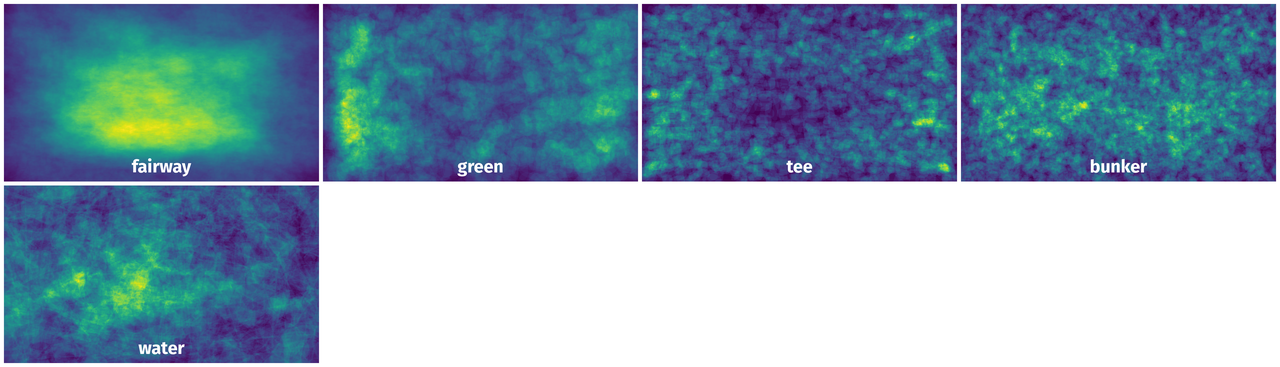
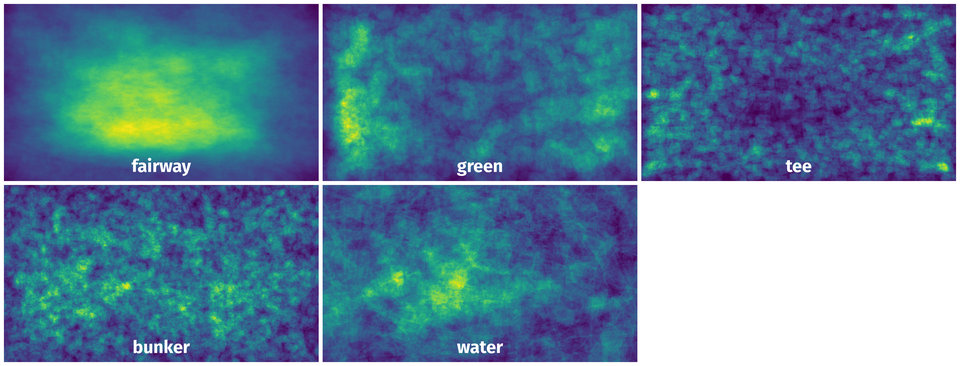
гтршву

diff --git a/src/options.py b/src/options.py
@@ -10,7 +10,7 @@ SAMPLE_RATE = 1  # make less if dataset is too big
 # * Preview class to visualize in SUMMARY.md overview section
 # * Literal["ClassesPreview", "HorizontalGrid", "SideAnnotationsGrid", "Poster", "HorizontalGridAnimated", "VerticalGridAnimated"]
 # * If None, then preview_class will be set automatically to "ClassesPreview"
-PREVIEW_CLASS = "Poster"
+PREVIEW_CLASS = "HorizontalGridAnimated"
 
 IS_DETECTION_TASK: bool = None  # ? Set True if you want to visualize only bbox annotations
 if IS_DETECTION_TASK is None:
@@ -67,8 +67,8 @@ CLASSES_PREVIEW_GAP: int = None
 ### * Set up visualization params for ClassesHeatmaps class ###
 # args for "to_image" method
 DRAW_STYLE: str = None  # "inside_white" or "outside_black"
-HEATMAP_ROWS: int = None
-HEATMAP_COLS: int = None
+HEATMAP_ROWS: int = 2
+HEATMAP_COLS: int = 3
 HEATMAP_GRID_SPACING: int = None
 HEATMAP_OUTER_GRID_SPACING: int = None
 HEATMAP_OUTPUT_WIDTH: int = (

diff --git a/src/settings.py b/src/settings.py
@@ -15,7 +15,7 @@ from dataset_tools.templates import (
 ##################################
 PROJECT_NAME: str = "Danish Golf Courses Orthophotos"
 PROJECT_NAME_FULL: str = "Danish Golf Courses Orthophotos"
-HIDE_DATASET = True  # set False when 100% sure about repo quality
+HIDE_DATASET = False  # set False when 100% sure about repo quality
 
 ##################################
 # * After uploading to instance ##

diff --git a/ABSTRACT.md b/ABSTRACT.md
@@ -1,7 +1,9 @@
 The authors of the **Danish Golf Courses Orthophotos** dataset present a system designed to assist golf course raters in evaluating the difficulty rating of golf holes. Traditionally, this process involves time-consuming manual measurements on the golf course, which the authors aim to automate partially. They achieve this by training a U-net neural network to classify various elements on golf courses, including *green*, *fairway*, *tee*, *bunker*, and *water* bodies. This system helps measure distances between relevant course components. Notably, prior to this work, there were no publicly available datasets containing golf course data. To address this gap, the authors introduce a new public dataset of golf courses created from orthophotos. This dataset comprises 1,123 RGB orthophotos for training and validation, along with 108 RGB orthophotos for testing, all collected from 107 Danish golf courses during the spring season. The dataset includes manual annotations.
 
+<img src="https://github.com/dataset-ninja/gland-segmentation/assets/78355358/f158d0dd-71d5-41a2-aba5-4a5f57d54c35" alt="image" width="800">
+
 In the context of golf, a handicap system allows players of varying skill levels to compete fairly. This system relies on players' skill levels, known as handicap indexes, and the course rating to allocate the number of shots players receive on each hole based on their playing handicaps.
 
 Historically, determining the rating of golf courses has required labor-intensive measurements performed by a team of four golf course raters. These measurements encompass various factors, including fairway width, green size, distances to obstacles, bunker depth, grass length, tree presence, green slope, elevation, and topography. These measurements are then used to compute the course rating using a complex and confidential set of rules. This manual process is both time-consuming and limits measurement precision and consistency. The authors highlight the advances in satellite observation systems in the 20th and 21st centuries, which have improved the acquisition of accurate remote sensing data for land cover analysis and green space monitoring. They propose that some metrics relevant to golf course rating could be extracted from overhead imagery.
 
-For data collection, the authors utilized the national database "Dataforsyningen" (DF) to obtain 1,123 RGB orthophotos from 107 Danish ***golf course*** during the spring season. These images were divided into training and validation sets in a 70/30 split. Expert annotations focused on classes such as greens, fairways, tees, bunkers, water, and background. Trees and classes that couldn't be reliably differentiated at the scale of 1:1000 were omitted. An additional 108 images were collected for testing, spanning scales of 1:1000, 1:1250, and 1:1500 to ensure that testing images represented the layout of a single full golf hole. The surroundings of the golf hole were manually masked in the testing images to facilitate course rating computations per hole.
+For data collection, the authors utilized the national database "Dataforsyningen" (DF) to obtain 1,123 RGB orthophotos from 107 Danish ***golf course*** during the spring season. These images were randomly divided into training and validation sets in a 70/30 split. Expert annotations focused on classes such as greens, fairways, tees, bunkers, water, and background. Trees and classes that couldn't be reliably differentiated at the scale of 1:1000 were omitted. An additional 108 images were collected for testing, spanning scales of 1:1000, 1:1250, and 1:1500 to ensure that testing images represented the layout of a single full golf hole. The surroundings of the golf hole were manually masked in the testing images to facilitate course rating computations per hole.

diff --git a/SUMMARY.md b/SUMMARY.md
@@ -1,5 +1,7 @@
 **Danish Golf Courses Orthophotos** is a dataset for instance segmentation, semantic segmentation, and object detection tasks. It is used in the sports industry. 
 
-The dataset consists of 1123 images with 17111 labeled objects belonging to 5 different classes including *bunker*, *green*, *fairway*, and other: *tee* and *water*. There are no pre-defined <i>train/val/test</i> splits in the dataset. Additionally, images are tagged by 106 ***golf course*** groups. The dataset was released in 2023 by the Aalborg Univeristy, Denmark.
+The dataset consists of 1123 images with 17111 labeled objects belonging to 5 different classes including *bunker*, *green*, *fairway*, and other: *tee* and *water*. There are no pre-defined <i>train/val/test</i> splits in the dataset. Additionally, images are tagged by 106 ***golf course*** groups. Explore them in the supervisely advanced labeling tool. The dataset was released in 2023 by the Aalborg Univeristy, Denmark.
 
-<img src="https://github.com/dataset-ninja/danish-golf-courses-orthophotos/raw/main/visualizations/poster.png">
+Here is the visualized example grid with animated annotations:
+
+[animated grid](https://github.com/dataset-ninja/danish-golf-courses-orthophotos/raw/main/visualizations/horizontal_grid.webm)

diff --git a/DOWNLOAD.md b/DOWNLOAD.md
@@ -1,6 +1,6 @@
 Dataset **Danish Golf Courses Orthophotos** can be downloaded in [Supervisely format](https://developer.supervisely.com/api-references/supervisely-annotation-json-format):
 
- [Download](Set 'HIDE_DATASET=False' to generate download link)
+ [Download](https://assets.supervisely.com/supervisely-supervisely-assets-public/teams_storage/L/c/EY/MGgnYaL8D7onIquWh9mQFhAXdlsIpEiYftlDn8taG7Zf8pOsnssTFQeGKUdQke5iR8dxQHxtqfJXCBYsKnwXh9zHdlAVDAGA1JiHEbmpTODUGTFurE0juhcZOMya.tar)
 
 As an alternative, it can be downloaded with *dataset-tools* package:
 ``` bash
